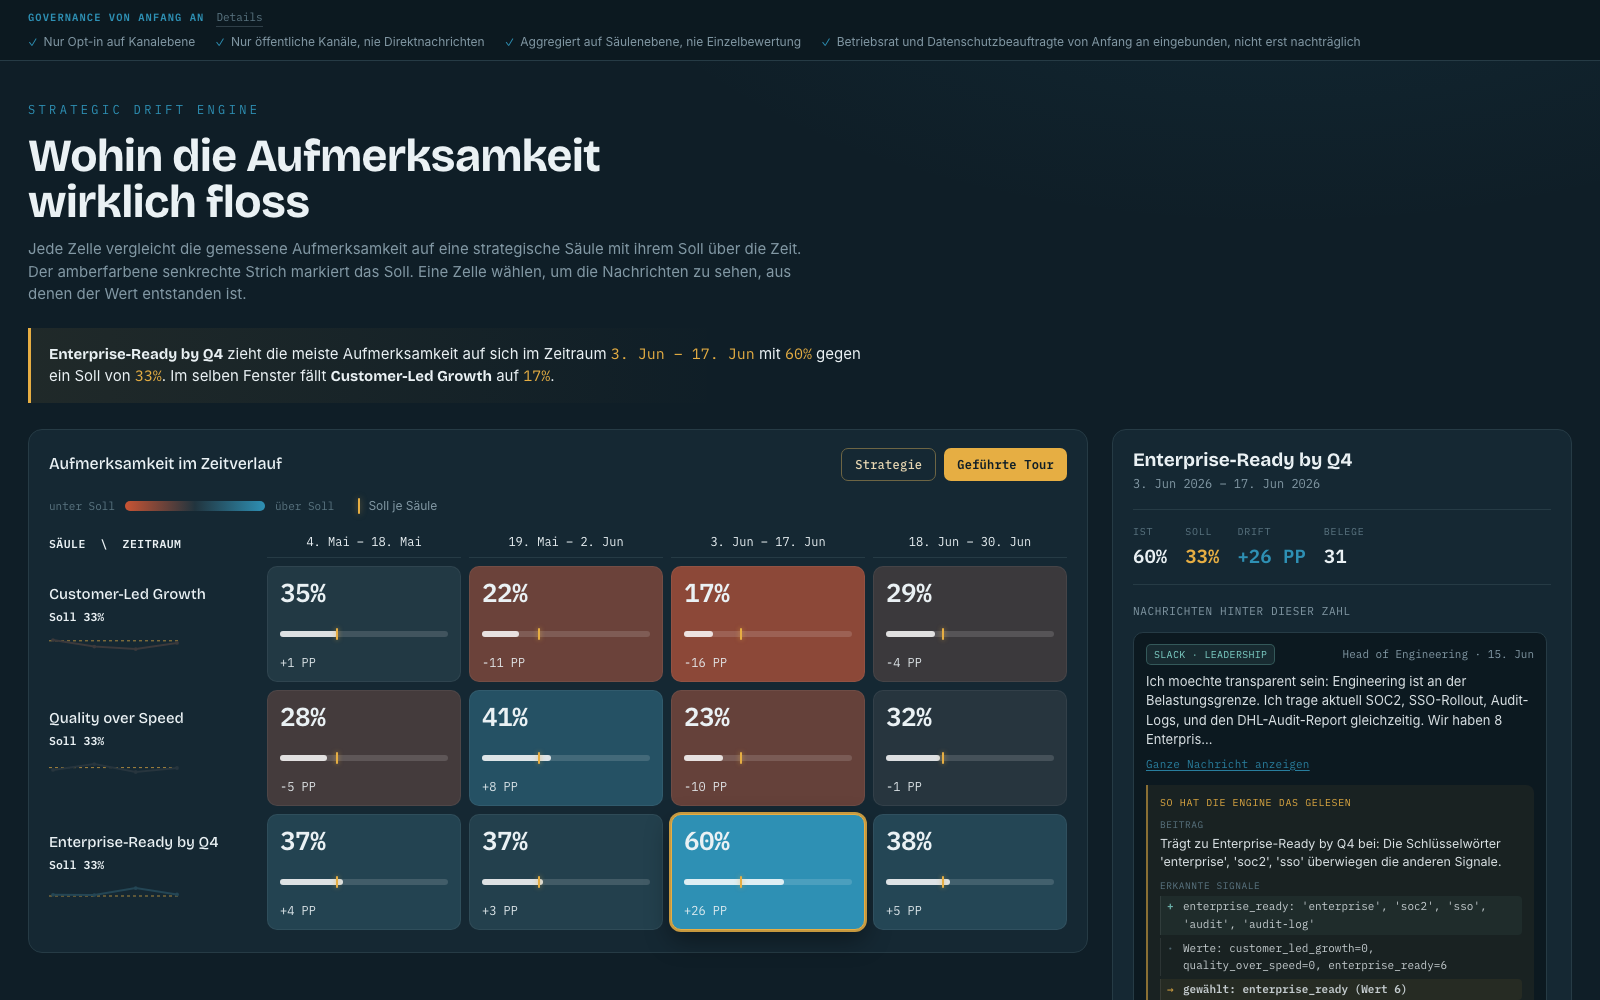
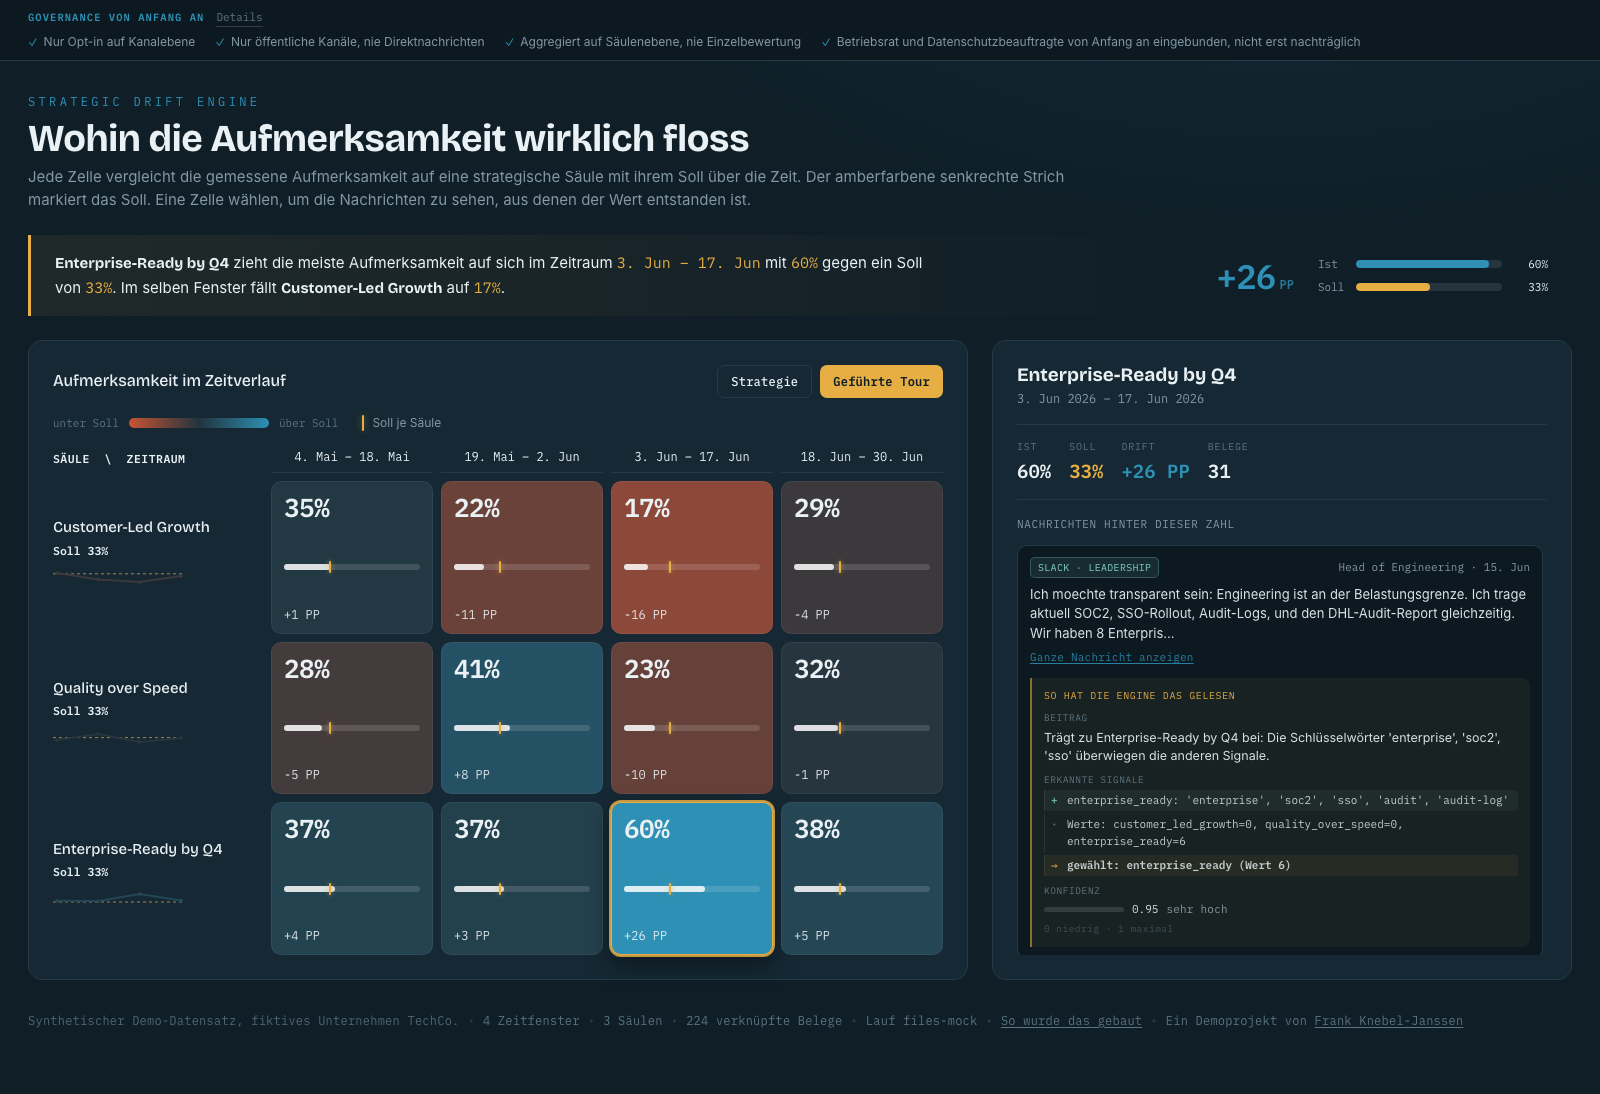
feat(frontend): Dashboard-Layout ueberarbeitet, Kernaussage visualisiert, Belege-Spalte vergroessert

diff --git a/docs/index.html b/docs/index.html
@@ -9,6 +9,7 @@
 <link href="https://fonts.googleapis.com/css2?family=Bricolage+Grotesque:opsz,wght@12..96,500;12..96,700&family=IBM+Plex+Mono:wght@400;500;600&family=Inter:wght@400;500;600&display=swap" rel="stylesheet">
 <style>
 :root{
+  --s1:8px; --s2:16px; --s3:24px; --s4:32px; --gutter:28px;
   --ground:#0F1E27; --panel:#152833; --panel2:#0C1920; --line:#263B45;
   --ink:#EAF1F4; --muted:#8298A4; --faint:#5A7480;
   --amber:#E6AE43; --rust:#C85434; --teal:#2E90B4; --neutral:#21343E;
@@ -34,29 +35,47 @@ body{
 .gov-link{font-family:var(--mono); font-size:11px; color:var(--faint); text-decoration:none;
   border-bottom:1px solid rgba(130,152,164,.3); margin-left:-10px}
 .gov-link:hover{color:var(--ink); border-bottom-color:var(--amber)}
-.wrap{max-width:1600px; margin:0 auto; padding:40px 28px 64px}
+.wrap{max-width:1600px; margin:0 auto; padding:var(--s4) var(--gutter) 64px}
 
 .eyebrow{font-family:var(--mono); font-size:12px; letter-spacing:.28em;
-  text-transform:uppercase; color:var(--teal); margin-bottom:14px}
+  text-transform:uppercase; color:var(--teal); margin-bottom:var(--s1)}
 .byline{font-size:12.5px; color:var(--faint); margin:-8px 0 16px}
 .byline a{color:var(--muted); text-decoration:none; border-bottom:1px solid rgba(130,152,164,.35)}
 .byline a:hover{color:var(--ink); border-bottom-color:var(--amber)}
-h1{font-family:var(--disp); font-weight:700; font-size:clamp(28px,4.4vw,46px);
-  line-height:1.02; letter-spacing:-.01em; margin:0 0 12px; max-width:24ch}
-.sub{color:var(--muted); font-size:15px; max-width:82ch; margin:0}
+h1{font-family:var(--disp); font-weight:700; font-size:clamp(26px,3.2vw,38px);
+  line-height:1.05; letter-spacing:-.01em; margin:0 0 var(--s1)}
+.sub{color:var(--muted); font-size:15px; max-width:110ch; margin:0}
 
-.reading{margin-top:22px; padding:15px 18px; border-left:3px solid var(--amber);
+.reading{margin-top:var(--s3); padding:var(--s2) var(--s3); border-left:3px solid var(--amber);
   background:linear-gradient(90deg, rgba(230,174,67,.08), transparent 80%);
-  border-radius:0 10px 10px 0; font-size:15px; max-width:92ch}
+  border-radius:0 10px 10px 0; font-size:15px; display:flex; align-items:center;
+  justify-content:space-between; gap:var(--s2) var(--s4); flex-wrap:wrap}
+.reading-text{flex:1 1 420px; max-width:92ch; line-height:1.55}
+.reading-viz{display:flex; align-items:center; gap:var(--s3); flex:0 0 auto}
+.rv-delta{font-family:var(--mono); font-weight:600; font-size:34px; line-height:1; letter-spacing:-.02em}
+.rv-delta small{font-size:12px; margin-left:4px; opacity:.8; letter-spacing:0}
+.rv-bars{display:flex; flex-direction:column; gap:6px; width:230px}
+.rv-row{display:grid; grid-template-columns:30px 1fr 38px; align-items:center; gap:var(--s1);
+  font-family:var(--mono); font-size:11px; color:var(--muted)}
+.rv-track{height:8px; border-radius:4px; background:rgba(255,255,255,.1); overflow:hidden}
+.rv-fill{display:block; height:100%; border-radius:4px}
+.rv-v{color:var(--ink); text-align:right}
 .reading b{font-family:var(--disp); font-weight:700}
 .reading .r-num{font-family:var(--mono); color:var(--amber)}
 
-.board{display:grid; grid-template-columns:1fr 460px; gap:24px; margin-top:26px; align-items:start}
-@media(max-width:900px){.board{grid-template-columns:1fr}}
+.board{display:grid; grid-template-columns:minmax(0,1fr) 580px; gap:var(--s3); margin-top:var(--s3);
+  align-items:stretch; min-height:clamp(560px, calc(100vh - 360px), 900px)}
+@media(max-width:1280px){.board{grid-template-columns:minmax(0,1fr) 440px}}
+@media(max-width:900px){
+  .board{grid-template-columns:1fr; min-height:0}
+  .drill{min-height:0}
+  .drill-in{position:static}
+  .ev-list{flex:none; max-height:60vh}
+}
 .panel{background:var(--panel); border:1px solid var(--line); border-radius:14px}
-.heatmap-panel{padding:18px 20px 22px}
+.heatmap-panel{padding:var(--s3); display:flex; flex-direction:column}
 
-.hm-head{display:flex; align-items:center; justify-content:space-between; margin-bottom:16px; gap:12px}
+.hm-head{display:flex; align-items:center; justify-content:space-between; margin-bottom:var(--s2); gap:12px}
 .hm-title{font-family:var(--disp); font-weight:500; font-size:16px}
 .hm-actions{display:flex; gap:8px}
 .tour-btn{font-family:var(--mono); font-size:12px; color:var(--ground); background:var(--amber);
@@ -114,7 +133,7 @@ h1{font-family:var(--disp); font-weight:700; font-size:clamp(28px,4.4vw,46px);
 .welcome-foot a:hover{color:var(--teal); border-bottom-color:var(--teal)}
 .welcome-foot .dot{color:var(--line)}
 
-.legend{display:flex; flex-wrap:wrap; align-items:center; gap:14px 24px; margin-bottom:18px}
+.legend{display:flex; flex-wrap:wrap; align-items:center; gap:14px var(--s3); margin-bottom:var(--s2)}
 .scale{display:flex; align-items:center; gap:10px}
 .scale-bar{width:140px; height:10px; border-radius:6px;
   background:linear-gradient(90deg,var(--rust),var(--neutral),var(--teal))}
@@ -122,7 +141,8 @@ h1{font-family:var(--disp); font-weight:700; font-size:clamp(28px,4.4vw,46px);
 .legend-soll{display:flex; align-items:center; gap:8px; font-size:12px; color:var(--muted)}
 .soll-mark{width:2px; height:16px; background:var(--amber); border-radius:2px; box-shadow:0 0 6px rgba(230,174,67,.5)}
 
-.grid{display:grid; gap:8px}
+.grid{display:grid; gap:var(--s1)}
+#grid{flex:1}
 .ghead{display:grid; gap:8px}
 .corner{font-family:var(--mono); font-size:11.5px; color:var(--ink); font-weight:600;
   align-self:end; letter-spacing:.04em; text-transform:uppercase; padding-bottom:6px}
@@ -165,14 +185,15 @@ h1{font-family:var(--disp); font-weight:700; font-size:clamp(28px,4.4vw,46px);
 .tb-ctrl button:disabled{opacity:.4; cursor:default}
 .tb-ctrl .prim{background:var(--amber); color:var(--ground); border-color:var(--amber); font-weight:600}
 
-.drill{padding:20px; position:sticky; top:22px}
+.drill{position:relative; min-height:520px}
+.drill-in{position:absolute; inset:0; padding:var(--s3); display:flex; flex-direction:column; min-height:0}
 .drill-head .d-pillar{font-family:var(--disp); font-weight:700; font-size:19px; line-height:1.1}
 .drill-head .d-win{font-family:var(--mono); font-size:12px; color:var(--muted); margin-top:4px}
-.d-stats{display:flex; gap:18px; margin:16px 0 18px; padding:14px 0; border-top:1px solid var(--line); border-bottom:1px solid var(--line)}
+.d-stats{display:flex; gap:18px; margin:var(--s2) 0; padding:14px 0; border-top:1px solid var(--line); border-bottom:1px solid var(--line)}
 .d-stat .k{font-family:var(--mono); font-size:10px; letter-spacing:.08em; text-transform:uppercase; color:var(--faint)}
 .d-stat .v{font-family:var(--mono); font-size:19px; font-weight:600; margin-top:3px}
 .d-evhead{font-family:var(--mono); font-size:11px; letter-spacing:.06em; text-transform:uppercase; color:var(--muted); margin-bottom:12px}
-.ev-list{display:flex; flex-direction:column; gap:12px; max-height:min(58vh,560px); overflow-y:auto; padding-right:4px}
+.ev-list{display:flex; flex-direction:column; gap:12px; flex:1; min-height:0; overflow-y:auto; padding-right:4px}
 .ev-list::-webkit-scrollbar{width:8px}
 .ev-list::-webkit-scrollbar-thumb{background:var(--line); border-radius:4px}
 .ev{background:var(--panel2); border:1px solid var(--line); border-radius:10px; padding:11px 12px}
@@ -228,7 +249,7 @@ h1{font-family:var(--disp); font-weight:700; font-size:clamp(28px,4.4vw,46px);
 .ev-foot{display:flex; align-items:center; gap:8px; margin-top:9px}
 .ev-rat{font-family:var(--mono); font-size:11px; color:var(--faint); margin-left:auto}
 
-footer{margin-top:30px; color:var(--faint); font-size:12px; font-family:var(--mono); letter-spacing:.02em}
+footer{margin-top:var(--s4); color:var(--faint); font-size:12px; font-family:var(--mono); letter-spacing:.02em}
 footer .dot{color:var(--line); margin:0 8px}
 footer .note{color:var(--faint); opacity:.85}
 
@@ -366,6 +387,7 @@ function renderGrid(){
   const grid = document.getElementById("grid");
   const cols = "210px repeat("+windows.length+", 1fr)";
   grid.innerHTML = "";
+  grid.style.gridTemplateRows = "auto repeat("+pillars.length+", minmax(116px,1fr))";
   const head = document.createElement("div");
   head.className="ghead"; head.style.gridTemplateColumns=cols;
   head.innerHTML = '<div class="corner">Säule &nbsp;\\&nbsp; Zeitraum</div>' +
@@ -512,7 +534,7 @@ function renderDrill(wi, pkey){
   const ev = (DATA.evidence[wi+":"+pkey]||[]);
   const driftCol = c.drift<0 ? "var(--rust)" : "var(--teal)";
   const items = ev.map(e=>evidenceCard(e)).join("");
-  drill.innerHTML =
+  drill.innerHTML = '<div class="drill-in">'+
     '<div class="drill-head"><div class="d-pillar">'+p.title+'</div>'+
       '<div class="d-win">'+fdatefull(w.start)+' – '+fdatefull(w.end)+'</div></div>'+
     '<div class="d-stats">'+
@@ -521,7 +543,7 @@ function renderDrill(wi, pkey){
       '<div class="d-stat"><div class="k">Drift</div><div class="v" style="color:'+driftCol+'">'+signed(c.drift)+' PP</div></div>'+
       '<div class="d-stat"><div class="k">Belege</div><div class="v">'+c.n_sources+'</div></div>'+
     '</div><div class="d-evhead">Nachrichten hinter dieser Zahl</div>'+
-    '<div class="ev-list">'+(items||'<div style="color:var(--faint);padding:20px 0">Keine Belege in dieser Zelle.</div>')+'</div>';
+    '<div class="ev-list">'+(items||'<div style="color:var(--faint);padding:20px 0">Keine Belege in dieser Zelle.</div>')+'</div></div>';
 }
 
 function renderReading(){
@@ -535,7 +557,17 @@ function renderReading(){
   if(low.pillar_key!==peak.pillar_key && low.drift<0){
     txt += ' Im selben Fenster fällt <b>'+pillarTitle(low.pillar_key)+'</b> auf <span class="r-num">'+pct(low.ist_anteil)+'</span>.';
   }
-  document.getElementById("reading").innerHTML = txt;
+  const scale = Math.max(peak.ist_anteil, peak.soll_anteil)*1.1 || 1;
+  const col = peak.drift<0 ? "var(--rust)" : "var(--teal)";
+  const viz =
+    '<div class="reading-viz" role="img" aria-label="Ist '+Math.round(peak.ist_anteil*100)+' Prozent gegen Soll '+
+      Math.round(peak.soll_anteil*100)+' Prozent, Abweichung '+signed(peak.drift)+' Prozentpunkte">'+
+      '<div class="rv-delta" style="color:'+col+'">'+signed(peak.drift)+'<small>PP</small></div>'+
+      '<div class="rv-bars">'+
+        '<div class="rv-row"><span>Ist</span><span class="rv-track"><span class="rv-fill" style="width:'+(peak.ist_anteil/scale*100)+'%;background:'+col+'"></span></span><span class="rv-v">'+pct(peak.ist_anteil)+'</span></div>'+
+        '<div class="rv-row"><span>Soll</span><span class="rv-track"><span class="rv-fill" style="width:'+(peak.soll_anteil/scale*100)+'%;background:var(--amber)"></span></span><span class="rv-v">'+pct(peak.soll_anteil)+'</span></div>'+
+      '</div></div>';
+  document.getElementById("reading").innerHTML = '<div class="reading-text">'+txt+'</div>'+viz;
 }
 
 function buildTour(){

diff --git a/docs/build_frontend.py b/docs/build_frontend.py
@@ -31,6 +31,7 @@ HTML = r"""<!DOCTYPE html>
 <link href="https://fonts.googleapis.com/css2?family=Bricolage+Grotesque:opsz,wght@12..96,500;12..96,700&family=IBM+Plex+Mono:wght@400;500;600&family=Inter:wght@400;500;600&display=swap" rel="stylesheet">
 <style>
 :root{
+  --s1:8px; --s2:16px; --s3:24px; --s4:32px; --gutter:28px;
   --ground:#0F1E27; --panel:#152833; --panel2:#0C1920; --line:#263B45;
   --ink:#EAF1F4; --muted:#8298A4; --faint:#5A7480;
   --amber:#E6AE43; --rust:#C85434; --teal:#2E90B4; --neutral:#21343E;
@@ -56,29 +57,47 @@ body{
 .gov-link{font-family:var(--mono); font-size:11px; color:var(--faint); text-decoration:none;
   border-bottom:1px solid rgba(130,152,164,.3); margin-left:-10px}
 .gov-link:hover{color:var(--ink); border-bottom-color:var(--amber)}
-.wrap{max-width:1600px; margin:0 auto; padding:40px 28px 64px}
+.wrap{max-width:1600px; margin:0 auto; padding:var(--s4) var(--gutter) 64px}
 
 .eyebrow{font-family:var(--mono); font-size:12px; letter-spacing:.28em;
-  text-transform:uppercase; color:var(--teal); margin-bottom:14px}
+  text-transform:uppercase; color:var(--teal); margin-bottom:var(--s1)}
 .byline{font-size:12.5px; color:var(--faint); margin:-8px 0 16px}
 .byline a{color:var(--muted); text-decoration:none; border-bottom:1px solid rgba(130,152,164,.35)}
 .byline a:hover{color:var(--ink); border-bottom-color:var(--amber)}
-h1{font-family:var(--disp); font-weight:700; font-size:clamp(28px,4.4vw,46px);
-  line-height:1.02; letter-spacing:-.01em; margin:0 0 12px; max-width:24ch}
-.sub{color:var(--muted); font-size:15px; max-width:82ch; margin:0}
+h1{font-family:var(--disp); font-weight:700; font-size:clamp(26px,3.2vw,38px);
+  line-height:1.05; letter-spacing:-.01em; margin:0 0 var(--s1)}
+.sub{color:var(--muted); font-size:15px; max-width:110ch; margin:0}
 
-.reading{margin-top:22px; padding:15px 18px; border-left:3px solid var(--amber);
+.reading{margin-top:var(--s3); padding:var(--s2) var(--s3); border-left:3px solid var(--amber);
   background:linear-gradient(90deg, rgba(230,174,67,.08), transparent 80%);
-  border-radius:0 10px 10px 0; font-size:15px; max-width:92ch}
+  border-radius:0 10px 10px 0; font-size:15px; display:flex; align-items:center;
+  justify-content:space-between; gap:var(--s2) var(--s4); flex-wrap:wrap}
+.reading-text{flex:1 1 420px; max-width:92ch; line-height:1.55}
+.reading-viz{display:flex; align-items:center; gap:var(--s3); flex:0 0 auto}
+.rv-delta{font-family:var(--mono); font-weight:600; font-size:34px; line-height:1; letter-spacing:-.02em}
+.rv-delta small{font-size:12px; margin-left:4px; opacity:.8; letter-spacing:0}
+.rv-bars{display:flex; flex-direction:column; gap:6px; width:230px}
+.rv-row{display:grid; grid-template-columns:30px 1fr 38px; align-items:center; gap:var(--s1);
+  font-family:var(--mono); font-size:11px; color:var(--muted)}
+.rv-track{height:8px; border-radius:4px; background:rgba(255,255,255,.1); overflow:hidden}
+.rv-fill{display:block; height:100%; border-radius:4px}
+.rv-v{color:var(--ink); text-align:right}
 .reading b{font-family:var(--disp); font-weight:700}
 .reading .r-num{font-family:var(--mono); color:var(--amber)}
 
-.board{display:grid; grid-template-columns:1fr 460px; gap:24px; margin-top:26px; align-items:start}
-@media(max-width:900px){.board{grid-template-columns:1fr}}
+.board{display:grid; grid-template-columns:minmax(0,1fr) 580px; gap:var(--s3); margin-top:var(--s3);
+  align-items:stretch; min-height:clamp(560px, calc(100vh - 360px), 900px)}
+@media(max-width:1280px){.board{grid-template-columns:minmax(0,1fr) 440px}}
+@media(max-width:900px){
+  .board{grid-template-columns:1fr; min-height:0}
+  .drill{min-height:0}
+  .drill-in{position:static}
+  .ev-list{flex:none; max-height:60vh}
+}
 .panel{background:var(--panel); border:1px solid var(--line); border-radius:14px}
-.heatmap-panel{padding:18px 20px 22px}
+.heatmap-panel{padding:var(--s3); display:flex; flex-direction:column}
 
-.hm-head{display:flex; align-items:center; justify-content:space-between; margin-bottom:16px; gap:12px}
+.hm-head{display:flex; align-items:center; justify-content:space-between; margin-bottom:var(--s2); gap:12px}
 .hm-title{font-family:var(--disp); font-weight:500; font-size:16px}
 .hm-actions{display:flex; gap:8px}
 .tour-btn{font-family:var(--mono); font-size:12px; color:var(--ground); background:var(--amber);
@@ -136,7 +155,7 @@ h1{font-family:var(--disp); font-weight:700; font-size:clamp(28px,4.4vw,46px);
 .welcome-foot a:hover{color:var(--teal); border-bottom-color:var(--teal)}
 .welcome-foot .dot{color:var(--line)}
 
-.legend{display:flex; flex-wrap:wrap; align-items:center; gap:14px 24px; margin-bottom:18px}
+.legend{display:flex; flex-wrap:wrap; align-items:center; gap:14px var(--s3); margin-bottom:var(--s2)}
 .scale{display:flex; align-items:center; gap:10px}
 .scale-bar{width:140px; height:10px; border-radius:6px;
   background:linear-gradient(90deg,var(--rust),var(--neutral),var(--teal))}
@@ -144,7 +163,8 @@ h1{font-family:var(--disp); font-weight:700; font-size:clamp(28px,4.4vw,46px);
 .legend-soll{display:flex; align-items:center; gap:8px; font-size:12px; color:var(--muted)}
 .soll-mark{width:2px; height:16px; background:var(--amber); border-radius:2px; box-shadow:0 0 6px rgba(230,174,67,.5)}
 
-.grid{display:grid; gap:8px}
+.grid{display:grid; gap:var(--s1)}
+#grid{flex:1}
 .ghead{display:grid; gap:8px}
 .corner{font-family:var(--mono); font-size:11.5px; color:var(--ink); font-weight:600;
   align-self:end; letter-spacing:.04em; text-transform:uppercase; padding-bottom:6px}
@@ -187,14 +207,15 @@ h1{font-family:var(--disp); font-weight:700; font-size:clamp(28px,4.4vw,46px);
 .tb-ctrl button:disabled{opacity:.4; cursor:default}
 .tb-ctrl .prim{background:var(--amber); color:var(--ground); border-color:var(--amber); font-weight:600}
 
-.drill{padding:20px; position:sticky; top:22px}
+.drill{position:relative; min-height:520px}
+.drill-in{position:absolute; inset:0; padding:var(--s3); display:flex; flex-direction:column; min-height:0}
 .drill-head .d-pillar{font-family:var(--disp); font-weight:700; font-size:19px; line-height:1.1}
 .drill-head .d-win{font-family:var(--mono); font-size:12px; color:var(--muted); margin-top:4px}
-.d-stats{display:flex; gap:18px; margin:16px 0 18px; padding:14px 0; border-top:1px solid var(--line); border-bottom:1px solid var(--line)}
+.d-stats{display:flex; gap:18px; margin:var(--s2) 0; padding:14px 0; border-top:1px solid var(--line); border-bottom:1px solid var(--line)}
 .d-stat .k{font-family:var(--mono); font-size:10px; letter-spacing:.08em; text-transform:uppercase; color:var(--faint)}
 .d-stat .v{font-family:var(--mono); font-size:19px; font-weight:600; margin-top:3px}
 .d-evhead{font-family:var(--mono); font-size:11px; letter-spacing:.06em; text-transform:uppercase; color:var(--muted); margin-bottom:12px}
-.ev-list{display:flex; flex-direction:column; gap:12px; max-height:min(58vh,560px); overflow-y:auto; padding-right:4px}
+.ev-list{display:flex; flex-direction:column; gap:12px; flex:1; min-height:0; overflow-y:auto; padding-right:4px}
 .ev-list::-webkit-scrollbar{width:8px}
 .ev-list::-webkit-scrollbar-thumb{background:var(--line); border-radius:4px}
 .ev{background:var(--panel2); border:1px solid var(--line); border-radius:10px; padding:11px 12px}
@@ -250,7 +271,7 @@ h1{font-family:var(--disp); font-weight:700; font-size:clamp(28px,4.4vw,46px);
 .ev-foot{display:flex; align-items:center; gap:8px; margin-top:9px}
 .ev-rat{font-family:var(--mono); font-size:11px; color:var(--faint); margin-left:auto}
 
-footer{margin-top:30px; color:var(--faint); font-size:12px; font-family:var(--mono); letter-spacing:.02em}
+footer{margin-top:var(--s4); color:var(--faint); font-size:12px; font-family:var(--mono); letter-spacing:.02em}
 footer .dot{color:var(--line); margin:0 8px}
 footer .note{color:var(--faint); opacity:.85}
 
@@ -388,6 +409,7 @@ function renderGrid(){
   const grid = document.getElementById("grid");
   const cols = "210px repeat("+windows.length+", 1fr)";
   grid.innerHTML = "";
+  grid.style.gridTemplateRows = "auto repeat("+pillars.length+", minmax(116px,1fr))";
   const head = document.createElement("div");
   head.className="ghead"; head.style.gridTemplateColumns=cols;
   head.innerHTML = '<div class="corner">Säule &nbsp;\\&nbsp; Zeitraum</div>' +
@@ -534,7 +556,7 @@ function renderDrill(wi, pkey){
   const ev = (DATA.evidence[wi+":"+pkey]||[]);
   const driftCol = c.drift<0 ? "var(--rust)" : "var(--teal)";
   const items = ev.map(e=>evidenceCard(e)).join("");
-  drill.innerHTML =
+  drill.innerHTML = '<div class="drill-in">'+
     '<div class="drill-head"><div class="d-pillar">'+p.title+'</div>'+
       '<div class="d-win">'+fdatefull(w.start)+' – '+fdatefull(w.end)+'</div></div>'+
     '<div class="d-stats">'+
@@ -543,7 +565,7 @@ function renderDrill(wi, pkey){
       '<div class="d-stat"><div class="k">Drift</div><div class="v" style="color:'+driftCol+'">'+signed(c.drift)+' PP</div></div>'+
       '<div class="d-stat"><div class="k">Belege</div><div class="v">'+c.n_sources+'</div></div>'+
     '</div><div class="d-evhead">Nachrichten hinter dieser Zahl</div>'+
-    '<div class="ev-list">'+(items||'<div style="color:var(--faint);padding:20px 0">Keine Belege in dieser Zelle.</div>')+'</div>';
+    '<div class="ev-list">'+(items||'<div style="color:var(--faint);padding:20px 0">Keine Belege in dieser Zelle.</div>')+'</div></div>';
 }
 
 function renderReading(){
@@ -557,7 +579,17 @@ function renderReading(){
   if(low.pillar_key!==peak.pillar_key && low.drift<0){
     txt += ' Im selben Fenster fällt <b>'+pillarTitle(low.pillar_key)+'</b> auf <span class="r-num">'+pct(low.ist_anteil)+'</span>.';
   }
-  document.getElementById("reading").innerHTML = txt;
+  const scale = Math.max(peak.ist_anteil, peak.soll_anteil)*1.1 || 1;
+  const col = peak.drift<0 ? "var(--rust)" : "var(--teal)";
+  const viz =
+    '<div class="reading-viz" role="img" aria-label="Ist '+Math.round(peak.ist_anteil*100)+' Prozent gegen Soll '+
+      Math.round(peak.soll_anteil*100)+' Prozent, Abweichung '+signed(peak.drift)+' Prozentpunkte">'+
+      '<div class="rv-delta" style="color:'+col+'">'+signed(peak.drift)+'<small>PP</small></div>'+
+      '<div class="rv-bars">'+
+        '<div class="rv-row"><span>Ist</span><span class="rv-track"><span class="rv-fill" style="width:'+(peak.ist_anteil/scale*100)+'%;background:'+col+'"></span></span><span class="rv-v">'+pct(peak.ist_anteil)+'</span></div>'+
+        '<div class="rv-row"><span>Soll</span><span class="rv-track"><span class="rv-fill" style="width:'+(peak.soll_anteil/scale*100)+'%;background:var(--amber)"></span></span><span class="rv-v">'+pct(peak.soll_anteil)+'</span></div>'+
+      '</div></div>';
+  document.getElementById("reading").innerHTML = '<div class="reading-text">'+txt+'</div>'+viz;
 }
 
 function buildTour(){
